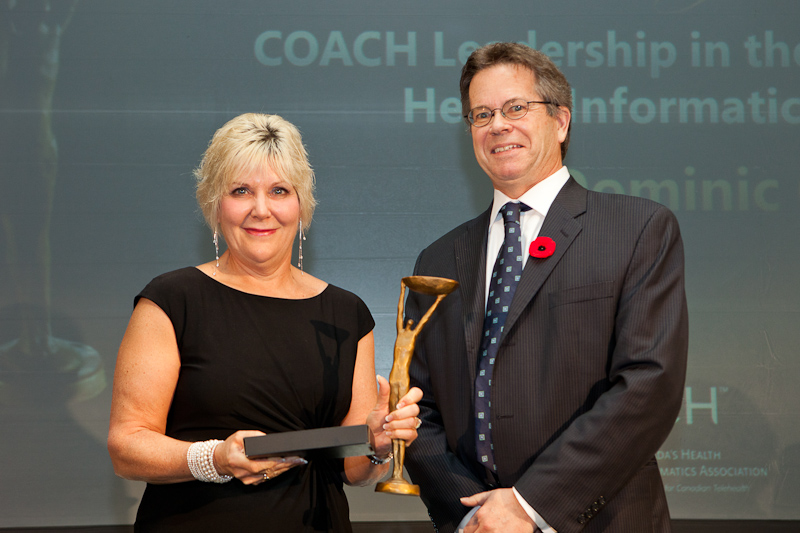
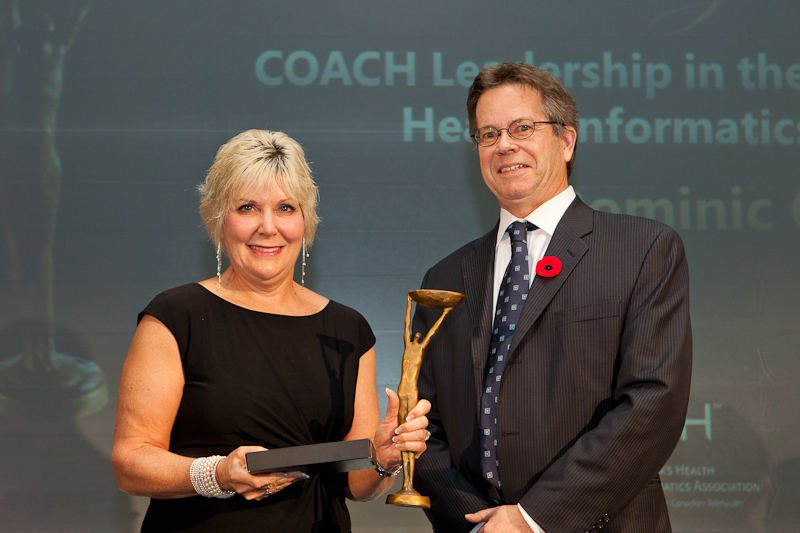
2012 initial code.

diff --git a/index.php b/index.php
@@ -16,35 +16,21 @@ include "body_header.php";
 	   </style>
 	   <br /><a href="/pdf/2010_CHIA_Poster.pdf"  ><img src="images/2010_CHIA_Poster_small.jpg" border="1" bordercolor="black"/><br />View the Poster</a><br/></p>-->
 	   <!-- p align="center"><img src="images/2011_CHIA_Banner.jpg" border="0" alt="The 7th annual CANADIAN HEALTH INFORMATICS AWARDS (CHIA) GALA"><br/-->
-	   <p align="center"><img src="images/2011-CHIA-Index-Body.jpg" border="0" alt="The 7th annual CANADIAN HEALTH INFORMATICS AWARDS (CHIA) GALA"><br/>
+	   <p align="center"><img src="images/2012-CHIA-Index-Body.jpg" border="0" alt="The 7th annual CANADIAN HEALTH INFORMATICS AWARDS (CHIA) GALA"><br/>
 	   </p>
 
 <p>
-<font size ="3"><B>Wednesday, November 9, 2011<BR>
+<font size ="3"><B>Wednesday, November 7, 2012<BR>
 Royal York Hotel, 100 Front Street West, Toronto<BR>
 <BR>
 Cocktails at 6:00pm followed by dinner and awards<BR>
 <BR>
-For more information, contact <a href="mailto:info@healthinformaticsawards.ca">info@healthinformaticsawards.ca</a><BR> or 905 981 0724<BR></B></font>
+For more information, contact <a href="mailto:info@healthinformaticsawards.ca">info@healthinformaticsawards.ca</a><BR> or 416 707 4404<BR></B></font>
 </p>
 
 <hr>
 
-<p align="left">The 7<sup>th</sup> annual CANADIAN HEALTH INFORMATICS AWARDS (CHIA) GALA, proudly co-hosted by <a href="http://www.itac.ca/health" target="_blank">ITAC Health</a>, the Information Technology Association of Canada, and <a href="http://www.coachorg.com" target="_blank">COACH</a>: Canada's Health Informatics Association, will be hosted this year on Wednesday, November 9, 2011 at the Royal York Hotel, 100 Front Street West, Toronto.</p>
-
-<p align="left">Cocktails at 6 pm, followed by Dinner & Awards Presentation</p>
-
-<p align="left"><B><a href="https://secure.coachorg.com/career_development/awards_&_scholarships/peer_recognition.htm" target="indaward1">COACH Health Awards</a></B></p>
-
-<!--p>To submit a nomination for the <B>2011 ITAC Health Awards</B>, please download a nomination form by clicking on the award category below:<BR>
-<a href="pdf/2011/Corporate_Citizenship_Award.pdf">Corporate Citizenship Award</a><BR>
-<a href="pdf/2011/Project%20Team%20-%20Innovation%20and%20Care%20Delivery%20Award.pdf">Project Team - Innovation and Care Delivery Award</a><BR>
-<a href="pdf/2011/Project%20Team%20-%20Implementation%20Award.pdf">Project Team - Implementation Award</a><BR>
-<a href="pdf/2011/Project%20Team%20-%20Patient%20Care%20Innovation%20Award%20(2).pdf">Project Team - Patient Care Innovation Award</a><BR></P-->
-
-<p align="left"><B><a href="awards_nominations.php">ITAC Health Awards</a></B></p>
-
-<!--p align="left"><B><a href="https://secure.coachorg.com/Career_Development/awards_&_scholarships/itac_health_awards.htm" target="indaward2">ITAC Health Awards</a></B></p-->
+<p>Award nominations will open in June 2012</p>
 
 <hr>
 <p align="left">Celebrating the outstanding achievements and excellence in the Canadian Health Informatics industry, the CHIA Gala recognizes and honours the contributions of individuals and companies in the efficient use of information technology to improve the health of all Canadians.</p>
@@ -62,7 +48,7 @@ For more information, contact <a href="mailto:info@healthinformaticsawards.ca">i
 
 <p align="left">For further information contact:<BR>
 TK Events Inc.<BR>
-Phone 905 981 0724<BR>
+Phone 416 707 4404<BR>
 info@healthinformaticsawards.ca.</p>
 
 
